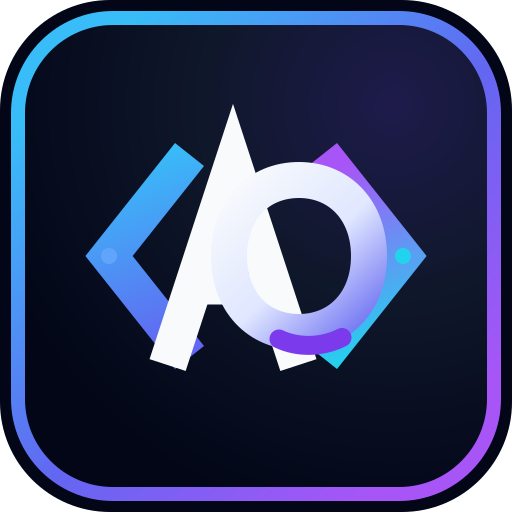
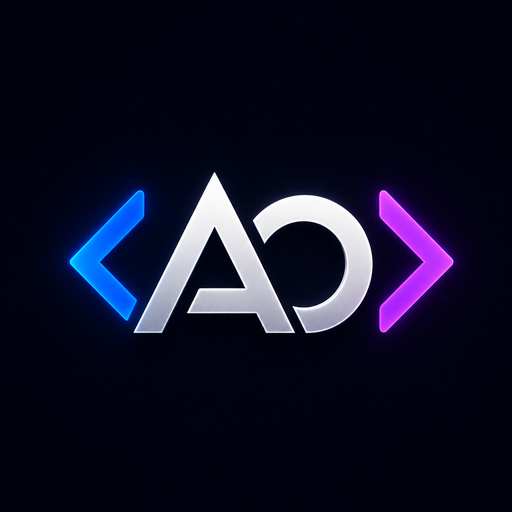
Optimize brand and profile assets

diff --git a/src/components/sections/certifications/Certifications.tsx b/src/components/sections/certifications/Certifications.tsx
@@ -10,23 +10,23 @@ import { cn } from "@/lib/utils";
 
 const certifications = [
   {
-    src: "/certificates/web-development-bootcamp.jpg",
+    src: "/certificates/web-development-bootcamp.webp",
     alt: "The Complete 2020 Web Development Bootcamp",
   },
   {
-    src: "/certificates/advanced-css-and-sass.jpg",
+    src: "/certificates/advanced-css-and-sass.webp",
     alt: "Advanced CSS and Sass: Flexbox, Grid, Animations and More!",
   },
   {
-    src: "/certificates/c-sharp-unity-developer.jpg",
+    src: "/certificates/c-sharp-unity-developer.webp",
     alt: "Complete C# Unity Game Developer 2D",
   },
   {
-    src: "/certificates/complete-node-js-developer.jpg",
+    src: "/certificates/complete-node-js-developer.webp",
     alt: "The Complete Node.js Developer Course (3rd Edition)",
   },
   {
-    src: "/certificates/data-science-and-ai-masters.jpg",
+    src: "/certificates/data-science-and-ai-masters.webp",
     alt: "Data Science and AI Masters 2026",
   },
 ];

diff --git a/src/app/layout.tsx b/src/app/layout.tsx
@@ -65,11 +65,11 @@ export const metadata: Metadata = {
       "Websites, CMS platforms, SaaS landing pages, and AI-enabled web tools built with clear communication and production-ready execution.",
     images: [
       {
-        url: "https://www.olomukoro.uk/og-image.png",
+        url: "https://www.olomukoro.uk/og-image.jpg",
         width: 1200,
         height: 630,
         alt: "Alexander Olomukoro freelance web and AI development services",
-        type: "image/png",
+        type: "image/jpeg",
       },
     ],
   },
@@ -79,7 +79,7 @@ export const metadata: Metadata = {
       "Alexander Olomukoro | Freelance Web Developer & AI Integration Specialist",
     description:
       "I build websites, CMS platforms, SaaS landing pages, and AI-enabled web tools for clients who want clarity from discovery to launch.",
-    images: ["https://www.olomukoro.uk/og-image.png"],
+    images: ["https://www.olomukoro.uk/og-image.jpg"],
     creator: "@xandersavage7",
   },
   robots: {

diff --git a/src/components/sections/about/About.tsx b/src/components/sections/about/About.tsx
@@ -117,7 +117,7 @@ export function About() {
             <BlurFade delay={baseDelay} inView>
               <div className="relative mx-auto md:mx-0 w-48 h-48 md:w-64 md:h-64 lg:w-80 lg:h-80 rounded-xl overflow-hidden shadow-xl transition-transform duration-300 hover:scale-[1.02] hover:shadow-2xl">
                 <Image
-                  src="/profile.JPEG"
+                  src="/profile-optimized.webp"
                   alt="Alexander Olomukoro"
                   fill
                   sizes="(max-width: 768px) 192px, (max-width: 1024px) 256px, 320px"

diff --git a/src/components/seo/StructuredData.tsx b/src/components/seo/StructuredData.tsx
@@ -3,7 +3,7 @@ const structuredData = {
   "@type": "ProfessionalService",
   name: "Alexander Olomukoro",
   url: "https://www.olomukoro.uk",
-  image: "https://www.olomukoro.uk/profile.JPEG",
+  image: "https://www.olomukoro.uk/profile-optimized.webp",
   email: "mailto:[email redacted]",
   founder: {
     "@type": "Person",

diff --git a/docs/implementation-roadmap.md b/docs/implementation-roadmap.md
@@ -84,8 +84,13 @@ The original local folder is not edited. This redesign turns the cloned portfoli
   - generated three AI-assisted AO monogram logo concepts and saved the concept board in `public/brand`,
   - implemented the Bracket-style AO mark as a production SVG and PNG social avatar,
   - replaced the default favicon/app icons with the AO brand mark,
-  - replaced the dynamic Open Graph image route with a static `public/og-image.png` for more reliable WhatsApp/Meta previews,
+  - replaced the dynamic Open Graph image route with a static optimized `public/og-image.jpg` for more reliable WhatsApp/Meta previews,
   - updated metadata icons, Open Graph image, and Twitter image references.
+- Completed asset optimization pass:
+  - compressed the ChatGPT-generated brand mark, Apple touch image, and Open Graph image before wiring them into metadata,
+  - replaced the About profile image with an optimized WebP version,
+  - replaced certificate carousel images with optimized WebP versions,
+  - removed unused large original PNG/JPEG source files from `public`.
 
 ## Verification Log
 
@@ -109,7 +114,9 @@ The original local folder is not edited. This redesign turns the cloned portfoli
 | Screenshot optimization lint | Passed | `npm.cmd run lint` completed with no warnings or errors after WebP wiring and gallery controls. |
 | Screenshot optimization build | Passed | `npm.cmd run build` completed successfully. Homepage route size is now 32.8 kB. |
 | Brand asset lint | Passed | `npm.cmd run lint` completed with no warnings or errors after favicon and social preview metadata update. |
-| Brand asset build | Passed | `npm.cmd run build` completed successfully. Static `/icon.png`, `/apple-icon.png`, and `/og-image.png` assets are available; the dynamic `/opengraph-image` route was removed. |
+| Brand asset build | Passed | `npm.cmd run build` completed successfully. Static `/icon.png`, `/apple-icon.png`, and social preview assets are available; the dynamic `/opengraph-image` route was removed. |
+| Asset optimization lint | Passed | `npm.cmd run lint` completed with no warnings or errors after replacing profile and certificate images with optimized WebP assets. |
+| Asset optimization build | Passed | `npm.cmd run build` completed successfully after replacing profile/certification images and wiring the compressed Open Graph JPEG. |
 | Desktop screenshot | Complete by supplied assets | User supplied desktop screenshots; optimized WebP versions are wired into case studies. |
 | Mobile screenshot | Complete by supplied assets | User supplied mobile screenshots; optimized WebP versions are wired into case studies. |
 